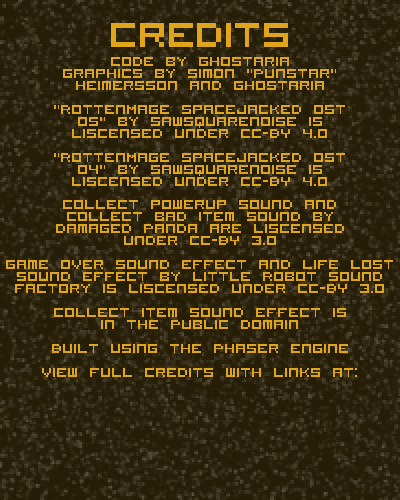
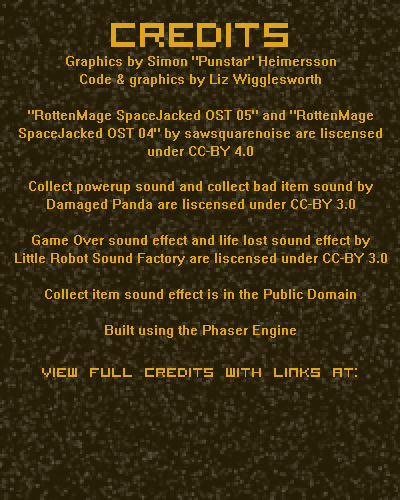
Update graphics and credits

Changed region(s): [[0.0, 0.21, 0.99, 0.72], [0.15, 0.09, 0.84, 0.18], [0.12, 0.69, 0.24, 0.72]]

diff --git a/js/About.js b/js/About.js
@@ -9,14 +9,14 @@ function gotoMenu() {
 }
 
 function openLink() {
-	window.open('https://github.com/gh0staria/the-walking-lady/blob/master/README.md#credits', '_blank');
+	window.open('https://github.com/lizgw/the-walking-lady/blob/master/README.md#credits', '_blank');
 }
 
 TheWalkingLady.About.prototype = {
 	create: function () {
 		//  Set the screen's background
 		creditsBackground = this.add.sprite(0, 0, 'creditsMenu');
-		credsLink = this.add.text(this.world.centerX, 385, 'github.com/gh0staria/the-walking-lady/', {fontStyle: 'italic', fontSize: '18px', fill: '#dfa51b'});
+		credsLink = this.add.text(this.world.centerX, 385, 'github.com/lizgw/the-walking-lady/', {fontSize: '18px', fill: '#dfa51b'});
 		credsLink.anchor.setTo(0.5, 0);
 		credsLink.inputEnabled = true;
 		credsLink.events.onInputDown.add(openLink, this);

diff --git a/README.md b/README.md
@@ -5,9 +5,9 @@ A short and simple falling objects game. Written to see what I could do with the
 Use the arrow keys to move and collect the falling items. Collect powerups to increase your speed, but stay away from the bad items! They make you slower. Every time a food item hits the ground you lose a life, and you only have three!
 
 ## Credits
-Code by [gh0staria](https://gh0staria.wordpress.com/)
+Code by [Liz Wigglesworth](https://github.com/lizgw)
 
-Graphics by [Simon "Punstar" Heimersson](https://instagram.com/simonthepunstar/) and [gh0staria](https://gh0staria.wordpress.com/)
+Graphics by [Simon "Punstar" Heimersson](https://twitter.com/PunStarOfficial) and [Liz Wigglesworth](https://github.com/lizgw)
 
 ##### Audio
 ["RottenMage SpaceJacked OST 05"](http://freemusicarchive.org/music/sawsquarenoise/RottenMage_SpaceJacked/RottenMage_SpaceJacked_OST_05) by [sawsquarenoise](http://freemusicarchive.org/music/sawsquarenoise/) is liscensed under [CC-BY 4.0](https://creativecommons.org/licenses/by/4.0/)
